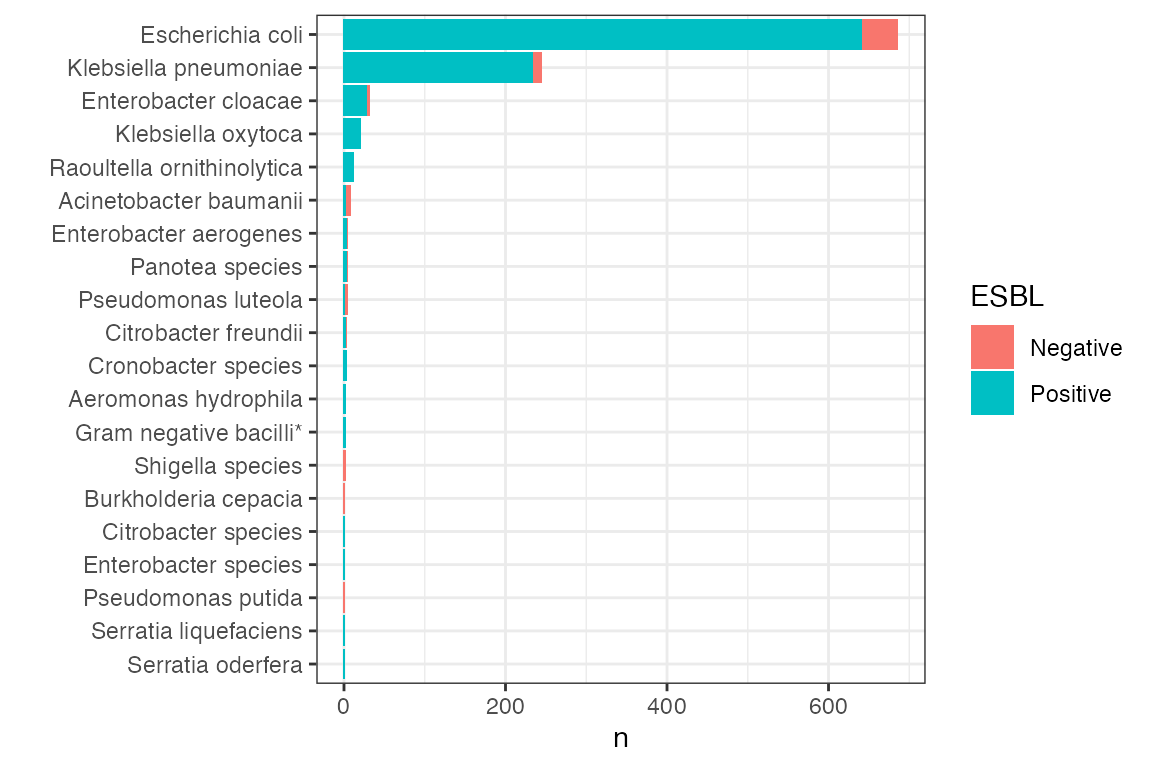
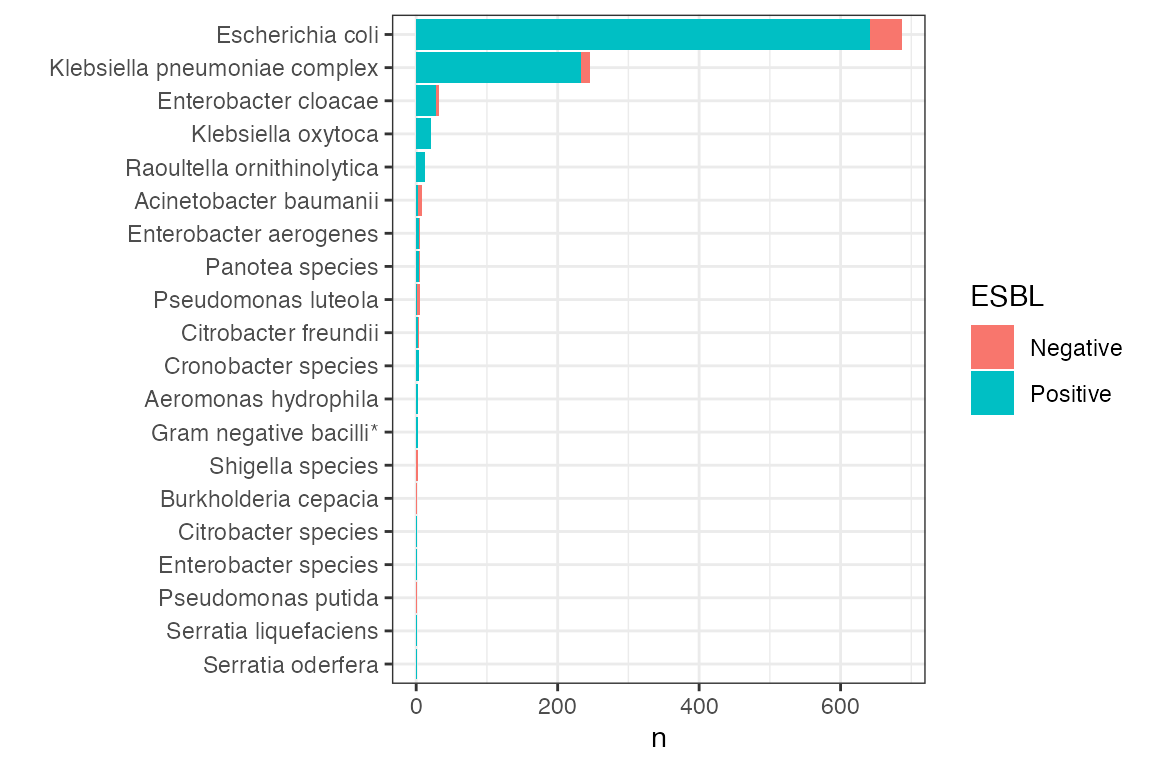
Add arrows manhattan plot reorder ESBL carriage rtable sort ggsave path errors

diff --git a/docs/articles/analysis.html b/docs/articles/analysis.html
@@ -99,7 +99,7 @@
 <p><br></p>
 <p><em>Dynamics of gut mucosal colonisation with extended spectrum beta-lactamase producing Enterobacterales in Malawi</em></p>
 <p><br></p>
-<p>Joseph M Lewis<sup>1,2,3,4</sup>, , Madalitso Mphasa<sup>1</sup>, Rachel Banda<sup>1</sup>, Matthew Beale<sup>4</sup>, Eva Heinz<sup>2</sup>, Jane Mallewa<sup>5</sup>, Christopher Jewell<sup>6</sup>, Nicholas R Thomson<sup>4</sup>, Nicholas A Feasey<sup>1,2</sup></p>
+<p>Joseph M Lewis<sup>1,2,3,4</sup>, , Madalitso Mphasa<sup>1</sup>, Rachel Banda<sup>1</sup>, Matthew Beale<sup>4</sup>, Eva Heinz<sup>2</sup>, Jane Mallewa<sup>5</sup>, Christopher Jewell<sup>6</sup>, Nicholas R Thomson<sup>4,7</sup>, Nicholas A Feasey<sup>1,2</sup></p>
 <ol style="list-style-type: decimal">
 <li>Malawi Liverpool Wellcome Clinical Research Programme, Blantyre, Malawi</li>
 <li>Liverpool School of Tropical Medicine, Liverpool, UK</li>
@@ -445,7 +445,7 @@ Male
 40/100 (40%)
 </td>
 <td style="text-align:left;">
-0.173
+0.169
 </td>
 <td style="text-align:left;">
 205/425 (48%)
@@ -533,7 +533,7 @@ Current CPT
 7/18 (39%)
 </td>
 <td style="text-align:left;">
-0.009
+0.010
 </td>
 <td style="text-align:left;">
 110/171 (64%)
@@ -553,7 +553,7 @@ Current ART
 18/18 (100%)
 </td>
 <td style="text-align:left;">
-0.072
+0.074
 </td>
 <td style="text-align:left;">
 144/173 (83%)
@@ -573,7 +573,7 @@ ART regimen: EFV/3TC/TDF
 17/18 (94%)
 </td>
 <td style="text-align:left;">
-0.652
+0.647
 </td>
 <td style="text-align:left;">
 135/144 (94%)
@@ -638,7 +638,7 @@ Hospitalised within 28 days
 0/100 (0%)
 </td>
 <td style="text-align:left;">
-&lt;0.001
+0.002
 </td>
 <td style="text-align:left;">
 19/425 (4%)
@@ -658,7 +658,7 @@ Current TB treatment
 4/100 (4%)
 </td>
 <td style="text-align:left;">
-0.089
+0.095
 </td>
 <td style="text-align:left;">
 14/425 (3%)
@@ -819,7 +819,7 @@ Electricty in house
 58/100 (58%)
 </td>
 <td style="text-align:left;">
-0.037
+0.040
 </td>
 <td style="text-align:left;">
 218/425 (51%)
@@ -839,7 +839,7 @@ Flush toilet<sup>‡</sup>
 1/100 (1%)
 </td>
 <td style="text-align:left;">
-0.116
+0.113
 </td>
 <td style="text-align:left;">
 20/425 (5%)
@@ -859,7 +859,7 @@ Protected water source<sup>§</sup>
 98/100 (98%)
 </td>
 <td style="text-align:left;">
-0.134
+0.122
 </td>
 <td style="text-align:left;">
 406/425 (96%)
@@ -879,7 +879,7 @@ Treat drinking water with chlorine
 0/100 (0%)
 </td>
 <td style="text-align:left;">
-0.003
+0.002
 </td>
 <td style="text-align:left;">
 24/425 (6%)
@@ -2251,79 +2251,11 @@ Day 180
 </tr>
 </tbody>
 </table>
-<div class="sourceCode" id="cb7"><pre class="downlit sourceCode r">
-<code class="sourceCode R"><span class="va">fills</span> <span class="op">=</span> <span class="fu"><a href="https://rdrr.io/r/base/c.html">c</a></span><span class="op">(</span><span class="st">"#A25050"</span>,<span class="st">"#6497b1"</span>,<span class="st">"#7cb9b9"</span><span class="op">)</span>
-
-
-
-<span class="va">cols</span> <span class="op">=</span> <span class="fu"><a href="https://rdrr.io/r/base/c.html">c</a></span><span class="op">(</span><span class="st">"#8F2727"</span>,<span class="st">"#03396c"</span>,<span class="st">"#278f8f"</span><span class="op">)</span>
-
-<span class="co"># get first ab exposure </span>
-<span class="va">btESBL_stoolESBL</span> <span class="op">%&gt;%</span> 
-<span class="fu">left_join</span><span class="op">(</span>
-    <span class="va">btESBL_exposures</span> <span class="op">%&gt;%</span>
-      <span class="fu">group_by</span><span class="op">(</span><span class="va">pid</span><span class="op">)</span> <span class="op">%&gt;%</span>
-      <span class="fu">complete</span><span class="op">(</span>assess_type <span class="op">=</span> <span class="fu"><a href="https://rdrr.io/r/base/c.html">c</a></span><span class="op">(</span><span class="fl">0</span><span class="op">:</span><span class="fu"><a href="https://rdrr.io/r/base/Extremes.html">max</a></span><span class="op">(</span><span class="va">assess_type</span><span class="op">)</span><span class="op">)</span><span class="op">)</span> <span class="op">%&gt;%</span>
-      <span class="fu">fill</span><span class="op">(</span><span class="fu">everything</span><span class="op">(</span><span class="op">)</span><span class="op">)</span> <span class="op">%&gt;%</span> <span class="fu">rowwise</span><span class="op">(</span><span class="op">)</span> <span class="op">%&gt;%</span>
-      <span class="fu">mutate</span><span class="op">(</span>any_abx <span class="op">=</span> <span class="fu"><a href="https://rdrr.io/r/base/any.html">any</a></span><span class="op">(</span><span class="fu">c_across</span><span class="op">(</span><span class="op">!</span><span class="fu">matches</span><span class="op">(</span>
-        <span class="st">"pid|assess|hosp|died"</span>
-      <span class="op">)</span><span class="op">)</span> <span class="op">==</span> <span class="fl">1</span><span class="op">)</span><span class="op">)</span> <span class="op">%&gt;%</span>
-      <span class="fu">group_by</span><span class="op">(</span><span class="va">pid</span><span class="op">)</span> <span class="op">%&gt;%</span>
-      <span class="fu"><a href="https://rdrr.io/r/stats/filter.html">filter</a></span><span class="op">(</span><span class="va">any_abx</span> <span class="op">==</span> <span class="fl">1</span><span class="op">)</span> <span class="op">%&gt;%</span>
-      <span class="fu">arrange</span><span class="op">(</span><span class="va">pid</span>, <span class="va">assess_type</span><span class="op">)</span> <span class="op">%&gt;%</span>
-      <span class="fu">slice</span><span class="op">(</span>n <span class="op">=</span> <span class="fl">1</span><span class="op">)</span> <span class="op">%&gt;%</span>
-      <span class="fu">mutate</span><span class="op">(</span>first_ab <span class="op">=</span> <span class="va">assess_type</span><span class="op">)</span> <span class="op">%&gt;%</span>
-      <span class="fu">select</span><span class="op">(</span><span class="va">pid</span>, <span class="va">first_ab</span><span class="op">)</span><span class="op">)</span> <span class="op">%&gt;%</span> 
-  <span class="co"># and hospital exposure</span>
-  <span class="fu">left_join</span><span class="op">(</span>
-    <span class="va">btESBL_exposures</span> <span class="op">%&gt;%</span>
-      <span class="fu">group_by</span><span class="op">(</span><span class="va">pid</span><span class="op">)</span> <span class="op">%&gt;%</span>
-      <span class="fu">complete</span><span class="op">(</span>assess_type <span class="op">=</span> <span class="fu"><a href="https://rdrr.io/r/base/c.html">c</a></span><span class="op">(</span><span class="fl">0</span><span class="op">:</span><span class="fu"><a href="https://rdrr.io/r/base/Extremes.html">max</a></span><span class="op">(</span><span class="va">assess_type</span><span class="op">)</span><span class="op">)</span><span class="op">)</span> <span class="op">%&gt;%</span>  
-      <span class="fu">fill</span><span class="op">(</span><span class="fu">everything</span><span class="op">(</span><span class="op">)</span><span class="op">)</span> <span class="op">%&gt;%</span> 
-      <span class="fu">group_by</span><span class="op">(</span><span class="va">pid</span><span class="op">)</span> <span class="op">%&gt;%</span> 
-      <span class="fu"><a href="https://rdrr.io/r/stats/filter.html">filter</a></span><span class="op">(</span><span class="va">hosp</span> <span class="op">==</span> <span class="fl">1</span><span class="op">)</span> <span class="op">%&gt;%</span> 
-      <span class="fu">arrange</span><span class="op">(</span><span class="va">pid</span>, <span class="va">assess_type</span><span class="op">)</span> <span class="op">%&gt;%</span> 
-      <span class="fu">slice</span><span class="op">(</span>n<span class="op">=</span><span class="fl">1</span><span class="op">)</span> <span class="op">%&gt;%</span> 
-      <span class="fu">mutate</span><span class="op">(</span>first_hosp <span class="op">=</span> <span class="va">assess_type</span><span class="op">)</span> <span class="op">%&gt;%</span>
-      <span class="fu">select</span><span class="op">(</span><span class="va">pid</span>, <span class="va">first_hosp</span><span class="op">)</span><span class="op">)</span> <span class="op">%&gt;%</span> 
-  <span class="co"># censor as described</span>
-  <span class="fu"><a href="https://rdrr.io/r/stats/filter.html">filter</a></span><span class="op">(</span>
-    <span class="op">!</span><span class="op">(</span><span class="va">arm</span> <span class="op">==</span> <span class="fl">2</span> <span class="op">&amp;</span> <span class="op">!</span><span class="fu"><a href="https://rdrr.io/r/base/NA.html">is.na</a></span><span class="op">(</span><span class="va">first_ab</span><span class="op">)</span> <span class="op">&amp;</span> <span class="va">first_ab</span> <span class="op">&lt;</span> <span class="va">t</span><span class="op">)</span>,
-    <span class="op">!</span><span class="op">(</span><span class="va">arm</span> <span class="op">==</span> <span class="fl">3</span> <span class="op">&amp;</span> <span class="op">!</span><span class="fu"><a href="https://rdrr.io/r/base/NA.html">is.na</a></span><span class="op">(</span><span class="va">first_ab</span><span class="op">)</span> <span class="op">&amp;</span> <span class="va">first_ab</span> <span class="op">&lt;</span> <span class="va">t</span><span class="op">)</span>,
-    <span class="op">!</span><span class="op">(</span><span class="va">arm</span> <span class="op">==</span> <span class="fl">3</span> <span class="op">&amp;</span> <span class="op">!</span><span class="fu"><a href="https://rdrr.io/r/base/NA.html">is.na</a></span><span class="op">(</span><span class="va">first_hosp</span><span class="op">)</span> <span class="op">&amp;</span> <span class="va">first_hosp</span> <span class="op">&lt;</span> <span class="va">t</span><span class="op">)</span>
-  <span class="op">)</span> <span class="op">%&gt;%</span> 
-  <span class="fu">mutate</span><span class="op">(</span>arm <span class="op">=</span> <span class="fu">case_when</span><span class="op">(</span>
-    <span class="va">arm</span> <span class="op">==</span> <span class="fl">1</span> <span class="op">~</span> <span class="st">"Inpatient:\nantimicrobials"</span>,
-    <span class="va">arm</span> <span class="op">==</span> <span class="fl">2</span> <span class="op">~</span> <span class="st">"Inpatient:\nno antimicrobials"</span>,
-    <span class="va">arm</span> <span class="op">==</span> <span class="fl">3</span> <span class="op">~</span> <span class="st">"Community"</span><span class="op">)</span>,
-    arm <span class="op">=</span> <span class="fu"><a href="https://rdrr.io/r/base/factor.html">factor</a></span><span class="op">(</span><span class="va">arm</span>, levels <span class="op">=</span> <span class="fu"><a href="https://rdrr.io/r/base/c.html">c</a></span><span class="op">(</span><span class="st">"Inpatient:\nantimicrobials"</span>, 
-                                 <span class="st">"Inpatient:\nno antimicrobials"</span>,
-                                 <span class="st">"Community"</span><span class="op">)</span><span class="op">)</span>
-    <span class="op">)</span> <span class="op">%&gt;%</span> 
-<span class="fu">ggplot</span><span class="op">(</span><span class="fu">aes</span><span class="op">(</span><span class="va">t</span>, <span class="fu"><a href="https://rdrr.io/r/base/numeric.html">as.numeric</a></span><span class="op">(</span><span class="va">ESBL</span> <span class="op">==</span> <span class="st">"Positive"</span><span class="op">)</span>, 
-               color <span class="op">=</span> <span class="fu"><a href="https://rdrr.io/r/base/factor.html">as.factor</a></span><span class="op">(</span><span class="va">arm</span><span class="op">)</span>, 
-               group <span class="op">=</span> <span class="fu"><a href="https://rdrr.io/r/base/factor.html">as.factor</a></span><span class="op">(</span><span class="va">arm</span><span class="op">)</span>,
-               fill <span class="op">=</span> <span class="fu"><a href="https://rdrr.io/r/base/factor.html">as.factor</a></span><span class="op">(</span><span class="va">arm</span><span class="op">)</span><span class="op">)</span><span class="op">)</span> <span class="op">+</span>
-  <span class="fu">geom_smooth</span><span class="op">(</span>size <span class="op">=</span> <span class="fl">0.5</span><span class="op">)</span> <span class="op">+</span>
-  <span class="fu">coord_cartesian</span><span class="op">(</span>xlim <span class="op">=</span> <span class="fu"><a href="https://rdrr.io/r/base/c.html">c</a></span><span class="op">(</span><span class="fl">0</span>,<span class="fl">180</span><span class="op">)</span>, ylim <span class="op">=</span> <span class="fu"><a href="https://rdrr.io/r/base/c.html">c</a></span><span class="op">(</span><span class="fl">0.1</span>,<span class="fl">0.9</span><span class="op">)</span><span class="op">)</span> <span class="op">+</span>
-  <span class="fu">theme_bw</span><span class="op">(</span><span class="op">)</span> <span class="op">+</span>
-  <span class="fu">scale_fill_manual</span><span class="op">(</span>values <span class="op">=</span> <span class="va">fills</span><span class="op">)</span> <span class="op">+</span>
-  <span class="fu">scale_color_manual</span><span class="op">(</span>values <span class="op">=</span> <span class="va">cols</span><span class="op">)</span> <span class="op">+</span>
-<span class="co">#  scale_color_npg() +</span>
- <span class="co">#   scale_fill_npg() + </span>
-<span class="co">#  scale_color_manual(values = pal_lancet()(3)[c(2,1,3)]) + </span>
- <span class="co"># scale_fill_manual(values = pal_lancet()(3)[c(2,1,3)]) +</span>
-  <span class="fu">xlab</span><span class="op">(</span><span class="st">"Day post enrollment"</span><span class="op">)</span> <span class="op">+</span>
-  <span class="fu">ylab</span><span class="op">(</span><span class="st">"ESBL-E prevalence"</span><span class="op">)</span> <span class="op">+</span>
-  <span class="fu">theme</span><span class="op">(</span>legend.title <span class="op">=</span> <span class="fu">element_blank</span><span class="op">(</span><span class="op">)</span>,
-        legend.position <span class="op">=</span> <span class="st">"top"</span><span class="op">)</span> <span class="op">-&gt;</span> <span class="va">ESBLprevplot</span>
-<span class="co">#&gt; Joining, by = "pid"</span>
-<span class="co">#&gt; Joining, by = "pid"</span></code></pre></div>
 </div>
 <div id="timing-of-sample-collection" class="section level3">
 <h3 class="hasAnchor">
 <a href="#timing-of-sample-collection" class="anchor"></a>Timing of sample collection</h3>
-<div class="sourceCode" id="cb8"><pre class="downlit sourceCode r">
+<div class="sourceCode" id="cb7"><pre class="downlit sourceCode r">
 <code class="sourceCode R"><span class="va">btESBL_stoolESBL</span> <span class="op">%&gt;%</span>
   <span class="fu"><a href="https://rdrr.io/r/stats/filter.html">filter</a></span><span class="op">(</span><span class="va">visit</span> <span class="op">!=</span> <span class="fl">0</span><span class="op">)</span> <span class="op">%&gt;%</span> 
   <span class="fu">mutate</span><span class="op">(</span>visit <span class="op">=</span> <span class="fu"><a href="https://rdrr.io/r/base/paste.html">paste0</a></span><span class="op">(</span><span class="st">"Visit "</span>, <span class="va">visit</span><span class="op">)</span><span class="op">)</span> <span class="op">%&gt;%</span> 
@@ -2346,7 +2278,7 @@ Day 180
 Timing of sample collection showing long tails around sample collection time.
 </p>
 </div>
-<div class="sourceCode" id="cb9"><pre class="downlit sourceCode r">
+<div class="sourceCode" id="cb8"><pre class="downlit sourceCode r">
 <code class="sourceCode R">
 <span class="kw">if</span> <span class="op">(</span><span class="va">write_figs</span><span class="op">)</span> <span class="op">{</span>
   <span class="fu">ggsave</span><span class="op">(</span><span class="fu">here</span><span class="op">(</span><span class="st">"figures/long-modelling/SUP_FIG_sample_collection_dates.pdf"</span><span class="op">)</span>,
@@ -2362,7 +2294,7 @@ Timing of sample collection showing long tails around sample collection time.
 <div id="species-plot" class="section level3">
 <h3 class="hasAnchor">
 <a href="#species-plot" class="anchor"></a>Species plot</h3>
-<div class="sourceCode" id="cb10"><pre class="downlit sourceCode r">
+<div class="sourceCode" id="cb9"><pre class="downlit sourceCode r">
 <code class="sourceCode R">
 <span class="va">btESBL_stoolorgs</span> <span class="op">%&gt;%</span> 
   <span class="fu">mutate</span><span class="op">(</span>
@@ -2370,6 +2302,8 @@ Timing of sample collection showing long tails around sample collection time.
       <span class="fu">case_when</span><span class="op">(</span><span class="va">organism</span> <span class="op">==</span> <span class="st">"pantoea sp"</span> <span class="op">~</span> <span class="st">"Panotea species"</span>,
                 <span class="va">organism</span> <span class="op">==</span> <span class="st">"Gram negative bacilli"</span> <span class="op">~</span>
                   <span class="st">"Gram negative bacilli*"</span>,
+                <span class="va">organism</span> <span class="op">==</span> <span class="st">"Klebsiella pneumoniae"</span> <span class="op">~</span>
+                  <span class="st">"Klebsiella pneumoniae complex"</span>,
                 <span class="cn">TRUE</span> <span class="op">~</span> <span class="va">organism</span><span class="op">)</span><span class="op">)</span> <span class="op">%&gt;%</span> 
   <span class="fu">ggplot</span><span class="op">(</span><span class="fu">aes</span><span class="op">(</span><span class="fu">fct_rev</span><span class="op">(</span><span class="fu">fct_infreq</span><span class="op">(</span><span class="va">organism</span><span class="op">)</span><span class="op">)</span>, fill <span class="op">=</span> <span class="va">ESBL</span><span class="op">)</span><span class="op">)</span> <span class="op">+</span>
   <span class="fu">geom_bar</span><span class="op">(</span><span class="op">)</span> <span class="op">+</span>
@@ -2384,7 +2318,7 @@ Timing of sample collection showing long tails around sample collection time.
 Species cultured from stool.
 </p>
 </div>
-<div class="sourceCode" id="cb11"><pre class="downlit sourceCode r">
+<div class="sourceCode" id="cb10"><pre class="downlit sourceCode r">
 <code class="sourceCode R">
 <span class="kw">if</span> <span class="op">(</span><span class="va">write_figs</span><span class="op">)</span> <span class="op">{</span>
   <span class="fu">ggsave</span><span class="op">(</span><span class="fu">here</span><span class="op">(</span><span class="st">"figures/long-modelling/SUP_FIG_stool_spec.pdf"</span><span class="op">)</span>,
@@ -2400,7 +2334,7 @@ Species cultured from stool.
 <div id="baseline-associations-of-esbl-colonisation" class="section level3">
 <h3 class="hasAnchor">
 <a href="#baseline-associations-of-esbl-colonisation" class="anchor"></a>Baseline associations of ESBL colonisation</h3>
-<div class="sourceCode" id="cb12"><pre class="downlit sourceCode r">
+<div class="sourceCode" id="cb11"><pre class="downlit sourceCode r">
 <code class="sourceCode R">
 <span class="co"># helper function for univariable ods ratios</span>
 
@@ -2942,6 +2876,74 @@ Rainy season (vs. dry)
 <div id="longitudinal-carriage" class="section level3">
 <h3 class="hasAnchor">
 <a href="#longitudinal-carriage" class="anchor"></a>Longitudinal carriage</h3>
+<div class="sourceCode" id="cb12"><pre class="downlit sourceCode r">
+<code class="sourceCode R"><span class="va">fills</span> <span class="op">=</span> <span class="fu"><a href="https://rdrr.io/r/base/c.html">c</a></span><span class="op">(</span><span class="st">"#A25050"</span>,<span class="st">"#6497b1"</span>,<span class="st">"#7cb9b9"</span><span class="op">)</span>
+
+
+
+<span class="va">cols</span> <span class="op">=</span> <span class="fu"><a href="https://rdrr.io/r/base/c.html">c</a></span><span class="op">(</span><span class="st">"#8F2727"</span>,<span class="st">"#03396c"</span>,<span class="st">"#278f8f"</span><span class="op">)</span>
+
+<span class="co"># get first ab exposure </span>
+<span class="va">btESBL_stoolESBL</span> <span class="op">%&gt;%</span> 
+<span class="fu">left_join</span><span class="op">(</span>
+    <span class="va">btESBL_exposures</span> <span class="op">%&gt;%</span>
+      <span class="fu">group_by</span><span class="op">(</span><span class="va">pid</span><span class="op">)</span> <span class="op">%&gt;%</span>
+      <span class="fu">complete</span><span class="op">(</span>assess_type <span class="op">=</span> <span class="fu"><a href="https://rdrr.io/r/base/c.html">c</a></span><span class="op">(</span><span class="fl">0</span><span class="op">:</span><span class="fu"><a href="https://rdrr.io/r/base/Extremes.html">max</a></span><span class="op">(</span><span class="va">assess_type</span><span class="op">)</span><span class="op">)</span><span class="op">)</span> <span class="op">%&gt;%</span>
+      <span class="fu">fill</span><span class="op">(</span><span class="fu">everything</span><span class="op">(</span><span class="op">)</span><span class="op">)</span> <span class="op">%&gt;%</span> <span class="fu">rowwise</span><span class="op">(</span><span class="op">)</span> <span class="op">%&gt;%</span>
+      <span class="fu">mutate</span><span class="op">(</span>any_abx <span class="op">=</span> <span class="fu"><a href="https://rdrr.io/r/base/any.html">any</a></span><span class="op">(</span><span class="fu">c_across</span><span class="op">(</span><span class="op">!</span><span class="fu">matches</span><span class="op">(</span>
+        <span class="st">"pid|assess|hosp|died"</span>
+      <span class="op">)</span><span class="op">)</span> <span class="op">==</span> <span class="fl">1</span><span class="op">)</span><span class="op">)</span> <span class="op">%&gt;%</span>
+      <span class="fu">group_by</span><span class="op">(</span><span class="va">pid</span><span class="op">)</span> <span class="op">%&gt;%</span>
+      <span class="fu"><a href="https://rdrr.io/r/stats/filter.html">filter</a></span><span class="op">(</span><span class="va">any_abx</span> <span class="op">==</span> <span class="fl">1</span><span class="op">)</span> <span class="op">%&gt;%</span>
+      <span class="fu">arrange</span><span class="op">(</span><span class="va">pid</span>, <span class="va">assess_type</span><span class="op">)</span> <span class="op">%&gt;%</span>
+      <span class="fu">slice</span><span class="op">(</span>n <span class="op">=</span> <span class="fl">1</span><span class="op">)</span> <span class="op">%&gt;%</span>
+      <span class="fu">mutate</span><span class="op">(</span>first_ab <span class="op">=</span> <span class="va">assess_type</span><span class="op">)</span> <span class="op">%&gt;%</span>
+      <span class="fu">select</span><span class="op">(</span><span class="va">pid</span>, <span class="va">first_ab</span><span class="op">)</span><span class="op">)</span> <span class="op">%&gt;%</span> 
+  <span class="co"># and hospital exposure</span>
+  <span class="fu">left_join</span><span class="op">(</span>
+    <span class="va">btESBL_exposures</span> <span class="op">%&gt;%</span>
+      <span class="fu">group_by</span><span class="op">(</span><span class="va">pid</span><span class="op">)</span> <span class="op">%&gt;%</span>
+      <span class="fu">complete</span><span class="op">(</span>assess_type <span class="op">=</span> <span class="fu"><a href="https://rdrr.io/r/base/c.html">c</a></span><span class="op">(</span><span class="fl">0</span><span class="op">:</span><span class="fu"><a href="https://rdrr.io/r/base/Extremes.html">max</a></span><span class="op">(</span><span class="va">assess_type</span><span class="op">)</span><span class="op">)</span><span class="op">)</span> <span class="op">%&gt;%</span>  
+      <span class="fu">fill</span><span class="op">(</span><span class="fu">everything</span><span class="op">(</span><span class="op">)</span><span class="op">)</span> <span class="op">%&gt;%</span> 
+      <span class="fu">group_by</span><span class="op">(</span><span class="va">pid</span><span class="op">)</span> <span class="op">%&gt;%</span> 
+      <span class="fu"><a href="https://rdrr.io/r/stats/filter.html">filter</a></span><span class="op">(</span><span class="va">hosp</span> <span class="op">==</span> <span class="fl">1</span><span class="op">)</span> <span class="op">%&gt;%</span> 
+      <span class="fu">arrange</span><span class="op">(</span><span class="va">pid</span>, <span class="va">assess_type</span><span class="op">)</span> <span class="op">%&gt;%</span> 
+      <span class="fu">slice</span><span class="op">(</span>n<span class="op">=</span><span class="fl">1</span><span class="op">)</span> <span class="op">%&gt;%</span> 
+      <span class="fu">mutate</span><span class="op">(</span>first_hosp <span class="op">=</span> <span class="va">assess_type</span><span class="op">)</span> <span class="op">%&gt;%</span>
+      <span class="fu">select</span><span class="op">(</span><span class="va">pid</span>, <span class="va">first_hosp</span><span class="op">)</span><span class="op">)</span> <span class="op">%&gt;%</span> 
+  <span class="co"># censor as described</span>
+  <span class="fu"><a href="https://rdrr.io/r/stats/filter.html">filter</a></span><span class="op">(</span>
+    <span class="op">!</span><span class="op">(</span><span class="va">arm</span> <span class="op">==</span> <span class="fl">2</span> <span class="op">&amp;</span> <span class="op">!</span><span class="fu"><a href="https://rdrr.io/r/base/NA.html">is.na</a></span><span class="op">(</span><span class="va">first_ab</span><span class="op">)</span> <span class="op">&amp;</span> <span class="va">first_ab</span> <span class="op">&lt;</span> <span class="va">t</span><span class="op">)</span>,
+    <span class="op">!</span><span class="op">(</span><span class="va">arm</span> <span class="op">==</span> <span class="fl">3</span> <span class="op">&amp;</span> <span class="op">!</span><span class="fu"><a href="https://rdrr.io/r/base/NA.html">is.na</a></span><span class="op">(</span><span class="va">first_ab</span><span class="op">)</span> <span class="op">&amp;</span> <span class="va">first_ab</span> <span class="op">&lt;</span> <span class="va">t</span><span class="op">)</span>,
+    <span class="op">!</span><span class="op">(</span><span class="va">arm</span> <span class="op">==</span> <span class="fl">3</span> <span class="op">&amp;</span> <span class="op">!</span><span class="fu"><a href="https://rdrr.io/r/base/NA.html">is.na</a></span><span class="op">(</span><span class="va">first_hosp</span><span class="op">)</span> <span class="op">&amp;</span> <span class="va">first_hosp</span> <span class="op">&lt;</span> <span class="va">t</span><span class="op">)</span>
+  <span class="op">)</span> <span class="op">%&gt;%</span> 
+  <span class="fu">mutate</span><span class="op">(</span>arm <span class="op">=</span> <span class="fu">case_when</span><span class="op">(</span>
+    <span class="va">arm</span> <span class="op">==</span> <span class="fl">1</span> <span class="op">~</span> <span class="st">"Inpatient:\nantimicrobials"</span>,
+    <span class="va">arm</span> <span class="op">==</span> <span class="fl">2</span> <span class="op">~</span> <span class="st">"Inpatient:\nno antimicrobials"</span>,
+    <span class="va">arm</span> <span class="op">==</span> <span class="fl">3</span> <span class="op">~</span> <span class="st">"Community"</span><span class="op">)</span>,
+    arm <span class="op">=</span> <span class="fu"><a href="https://rdrr.io/r/base/factor.html">factor</a></span><span class="op">(</span><span class="va">arm</span>, levels <span class="op">=</span> <span class="fu"><a href="https://rdrr.io/r/base/c.html">c</a></span><span class="op">(</span><span class="st">"Inpatient:\nantimicrobials"</span>, 
+                                 <span class="st">"Inpatient:\nno antimicrobials"</span>,
+                                 <span class="st">"Community"</span><span class="op">)</span><span class="op">)</span>
+    <span class="op">)</span> <span class="op">%&gt;%</span> 
+<span class="fu">ggplot</span><span class="op">(</span><span class="fu">aes</span><span class="op">(</span><span class="va">t</span>, <span class="fu"><a href="https://rdrr.io/r/base/numeric.html">as.numeric</a></span><span class="op">(</span><span class="va">ESBL</span> <span class="op">==</span> <span class="st">"Positive"</span><span class="op">)</span>, 
+               color <span class="op">=</span> <span class="fu"><a href="https://rdrr.io/r/base/factor.html">as.factor</a></span><span class="op">(</span><span class="va">arm</span><span class="op">)</span>, 
+               group <span class="op">=</span> <span class="fu"><a href="https://rdrr.io/r/base/factor.html">as.factor</a></span><span class="op">(</span><span class="va">arm</span><span class="op">)</span>,
+               fill <span class="op">=</span> <span class="fu"><a href="https://rdrr.io/r/base/factor.html">as.factor</a></span><span class="op">(</span><span class="va">arm</span><span class="op">)</span><span class="op">)</span><span class="op">)</span> <span class="op">+</span>
+  <span class="fu">geom_smooth</span><span class="op">(</span>size <span class="op">=</span> <span class="fl">0.5</span><span class="op">)</span> <span class="op">+</span>
+  <span class="fu">coord_cartesian</span><span class="op">(</span>xlim <span class="op">=</span> <span class="fu"><a href="https://rdrr.io/r/base/c.html">c</a></span><span class="op">(</span><span class="fl">0</span>,<span class="fl">180</span><span class="op">)</span>, ylim <span class="op">=</span> <span class="fu"><a href="https://rdrr.io/r/base/c.html">c</a></span><span class="op">(</span><span class="fl">0.1</span>,<span class="fl">0.9</span><span class="op">)</span><span class="op">)</span> <span class="op">+</span>
+  <span class="fu">theme_bw</span><span class="op">(</span><span class="op">)</span> <span class="op">+</span>
+  <span class="fu">scale_fill_manual</span><span class="op">(</span>values <span class="op">=</span> <span class="va">fills</span><span class="op">)</span> <span class="op">+</span>
+  <span class="fu">scale_color_manual</span><span class="op">(</span>values <span class="op">=</span> <span class="va">cols</span><span class="op">)</span> <span class="op">+</span>
+<span class="co">#  scale_color_npg() +</span>
+ <span class="co">#   scale_fill_npg() + </span>
+<span class="co">#  scale_color_manual(values = pal_lancet()(3)[c(2,1,3)]) + </span>
+ <span class="co"># scale_fill_manual(values = pal_lancet()(3)[c(2,1,3)]) +</span>
+  <span class="fu">xlab</span><span class="op">(</span><span class="st">"Day post enrollment"</span><span class="op">)</span> <span class="op">+</span>
+  <span class="fu">ylab</span><span class="op">(</span><span class="st">"ESBL-E prevalence"</span><span class="op">)</span> <span class="op">+</span>
+  <span class="fu">theme</span><span class="op">(</span>legend.title <span class="op">=</span> <span class="fu">element_blank</span><span class="op">(</span><span class="op">)</span>,
+        legend.position <span class="op">=</span> <span class="st">"top"</span><span class="op">)</span> <span class="op">-&gt;</span> <span class="va">ESBLprevplot</span>
+<span class="co">#&gt; Joining, by = "pid"</span>
+<span class="co">#&gt; Joining, by = "pid"</span></code></pre></div>
 <p>Describe carriage prevalence; plot model parameters; plot predicted prevalence.</p>
 <div class="sourceCode" id="cb13"><pre class="downlit sourceCode r">
 <code class="sourceCode R">
@@ -4429,7 +4431,11 @@ Within participant correlation of organism, lineage, mobile genetic element (MGE
     legend.position <span class="op">=</span> <span class="st">"none"</span>,
     axis.text.x <span class="op">=</span> <span class="fu">element_blank</span><span class="op">(</span><span class="op">)</span><span class="op">)</span> <span class="op">+</span>
       <span class="fu">scale_color_manual</span><span class="op">(</span>values <span class="op">=</span> <span class="fu"><a href="https://rdrr.io/r/base/c.html">c</a></span><span class="op">(</span><span class="st">"black"</span>, <span class="st">"red"</span><span class="op">)</span><span class="op">)</span> <span class="op">+</span>
-  <span class="fu">labs</span><span class="op">(</span>y <span class="op">=</span> <span class="st">"-log(p)"</span>, x <span class="op">=</span> <span class="st">"popPUNK cluster"</span><span class="op">)</span> <span class="op">-&gt;</span> <span class="va">manhattanplot_popPUNK</span>
+  <span class="fu">labs</span><span class="op">(</span>y <span class="op">=</span> <span class="st">"-log(p)"</span>, x <span class="op">=</span> <span class="st">"popPUNK cluster"</span><span class="op">)</span> <span class="op">+</span>
+  <span class="fu">geom_segment</span><span class="op">(</span><span class="fu">aes</span><span class="op">(</span>x <span class="op">=</span> <span class="op">(</span><span class="fl">23</span><span class="op">*</span><span class="fl">1.3</span><span class="op">)</span>, y <span class="op">=</span>  <span class="op">(</span><span class="fl">3.66722</span> <span class="op">-</span> <span class="fl">3.66722</span><span class="op">/</span><span class="fl">3</span><span class="op">)</span>, 
+                   xend <span class="op">=</span> <span class="fl">23</span> <span class="op">+</span> <span class="fl">23</span><span class="op">*</span><span class="fl">0.3</span><span class="op">*</span><span class="fl">0.1</span>, yend <span class="op">=</span> <span class="fl">3.66722</span> <span class="op">-</span> <span class="fl">0.1</span><span class="op">*</span><span class="fl">3.66722</span><span class="op">/</span><span class="fl">3</span><span class="op">)</span>,
+               arrow <span class="op">=</span> <span class="fu">arrow</span><span class="op">(</span>length <span class="op">=</span> <span class="fu">unit</span><span class="op">(</span><span class="fl">0.3</span>, <span class="st">"cm"</span><span class="op">)</span><span class="op">)</span><span class="op">)</span> <span class="op">-&gt;</span>
+  <span class="va">manhattanplot_popPUNK</span>
  <span class="co"># </span>
 
 <span class="co">## -- esbl clusters</span>
@@ -4471,7 +4477,11 @@ Within participant correlation of organism, lineage, mobile genetic element (MGE
     legend.position <span class="op">=</span> <span class="st">"none"</span>,
     axis.text.x <span class="op">=</span> <span class="fu">element_blank</span><span class="op">(</span><span class="op">)</span><span class="op">)</span> <span class="op">+</span>
       <span class="fu">scale_color_manual</span><span class="op">(</span>values <span class="op">=</span> <span class="fu"><a href="https://rdrr.io/r/base/c.html">c</a></span><span class="op">(</span><span class="st">"black"</span>, <span class="st">"red"</span><span class="op">)</span><span class="op">)</span> <span class="op">+</span>
-  <span class="fu">labs</span><span class="op">(</span>y <span class="op">=</span> <span class="st">"-log(p)"</span>, x <span class="op">=</span> <span class="st">"ESBL-contig cluster"</span><span class="op">)</span> <span class="op">-&gt;</span> <span class="va">manhattanplot_esbl</span>
+  <span class="fu">labs</span><span class="op">(</span>y <span class="op">=</span> <span class="st">"-log(p)"</span>, x <span class="op">=</span> <span class="st">"Contig cluster"</span><span class="op">)</span> <span class="op">+</span>
+  <span class="fu">geom_segment</span><span class="op">(</span><span class="fu">aes</span><span class="op">(</span>x <span class="op">=</span> <span class="op">(</span><span class="fl">27</span><span class="op">*</span><span class="fl">1.3</span><span class="op">)</span>, y <span class="op">=</span>  <span class="op">(</span><span class="fl">3.680</span> <span class="op">-</span> <span class="fl">3.680</span><span class="op">/</span><span class="fl">3</span><span class="op">)</span>, 
+                   xend <span class="op">=</span> <span class="fl">27</span> <span class="op">+</span> <span class="fl">27</span><span class="op">*</span><span class="fl">0.3</span><span class="op">*</span><span class="fl">0.1</span>, yend <span class="op">=</span> <span class="fl">3.680</span> <span class="op">-</span> <span class="fl">0.1</span><span class="op">*</span><span class="fl">3.680</span><span class="op">/</span><span class="fl">3</span><span class="op">)</span>,
+               arrow <span class="op">=</span> <span class="fu">arrow</span><span class="op">(</span>length <span class="op">=</span> <span class="fu">unit</span><span class="op">(</span><span class="fl">0.3</span>, <span class="st">"cm"</span><span class="op">)</span><span class="op">)</span> <span class="op">)</span> <span class="op">-&gt;</span>
+  <span class="va">manhattanplot_esbl</span>
  <span class="co"># </span>
 
 <span class="op">(</span><span class="op">(</span><span class="op">(</span><span class="va">hospassoc.tree.esco</span> <span class="op">|</span>
@@ -4781,7 +4791,9 @@ Within participant correlation of organism, lineage, mobile genetic element (MGE
 
 <span class="op">(</span><span class="va">snp_network_plot.esco</span> <span class="op">+</span> 
   <span class="va">snp_network_plot.kleb</span><span class="op">)</span> <span class="op">+</span> <span class="fu">plot_layout</span><span class="op">(</span>guides <span class="op">=</span> <span class="st">"collect"</span><span class="op">)</span> <span class="op">+</span>  
-  <span class="fu">plot_annotation</span><span class="op">(</span>tag_levels <span class="op">=</span> <span class="st">"A"</span><span class="op">)</span> <span class="op">&amp;</span> <span class="fu">theme</span><span class="op">(</span>legend.position <span class="op">=</span> <span class="st">'bottom'</span><span class="op">)</span> <span class="op">-&gt;</span>
+  <span class="fu">plot_annotation</span><span class="op">(</span>tag_levels <span class="op">=</span> <span class="st">"A"</span><span class="op">)</span> <span class="op">&amp;</span> 
+  <span class="fu">theme</span><span class="op">(</span>legend.position <span class="op">=</span> <span class="st">'bottom'</span>, 
+        plot.tag <span class="op">=</span> <span class="fu">element_text</span><span class="op">(</span>size <span class="op">=</span> <span class="fl">22</span><span class="op">)</span><span class="op">)</span> <span class="op">-&gt;</span>
   <span class="va">snp_networks</span>
 <span class="va">snp_networks</span></code></pre></div>
 <div class="figure">
@@ -5144,9 +5156,14 @@ Network plot of SNP-clusters (i.e. putative transmission clusters) for E. coli 
 
 <span class="kw">if</span> <span class="op">(</span><span class="va">write_figs</span><span class="op">)</span> <span class="op">{</span>
 
-<span class="fu">ggsave</span><span class="op">(</span><span class="st">"~/Documents/PhD/Manuscripts/2021012_esbl_carriage/manuscript/tables_and_figs/SUPP_FIG_sens_analysis_snpdist_autocorrelation.svg"</span>, <span class="va">sens_analysis_within_snpdist</span>, width <span class="op">=</span> <span class="fl">9</span>, height <span class="op">=</span> <span class="fl">4</span><span class="op">)</span>
-
-<span class="fu">ggsave</span><span class="op">(</span><span class="st">"~/Documents/PhD/Manuscripts/2021012_esbl_carriage/manuscript/tables_and_figs/SUPP_FIG_sens_analysis_snpdist_autocorrelation.pdf"</span>, <span class="va">sens_analysis_within_snpdist</span>, width <span class="op">=</span> <span class="fl">9</span>, height <span class="op">=</span> <span class="fl">4</span><span class="op">)</span>
+  <span class="fu">ggsave</span><span class="op">(</span><span class="fu">here</span><span class="op">(</span><span class="st">"figures/long-modelling/SUPP_FIG_sens_analysis_snpdist_autocorrelation.svg"</span><span class="op">)</span>,
+         <span class="va">snp_networks</span>,
+         width <span class="op">=</span> <span class="fl">9</span>,
+         height <span class="op">=</span> <span class="fl">4</span><span class="op">)</span>
+  <span class="fu">ggsave</span><span class="op">(</span><span class="fu">here</span><span class="op">(</span><span class="st">"figures/long-modelling/SUPP_FIG_sens_analysis_snpdist_autocorrelation.svg"</span><span class="op">)</span>,
+         <span class="va">snp_networks</span>,
+         width <span class="op">=</span> <span class="fl">9</span>, 
+         height <span class="op">=</span> <span class="fl">4</span><span class="op">)</span>
 
 <span class="op">}</span></code></pre></div>
 <div class="sourceCode" id="cb31"><pre class="downlit sourceCode r">
